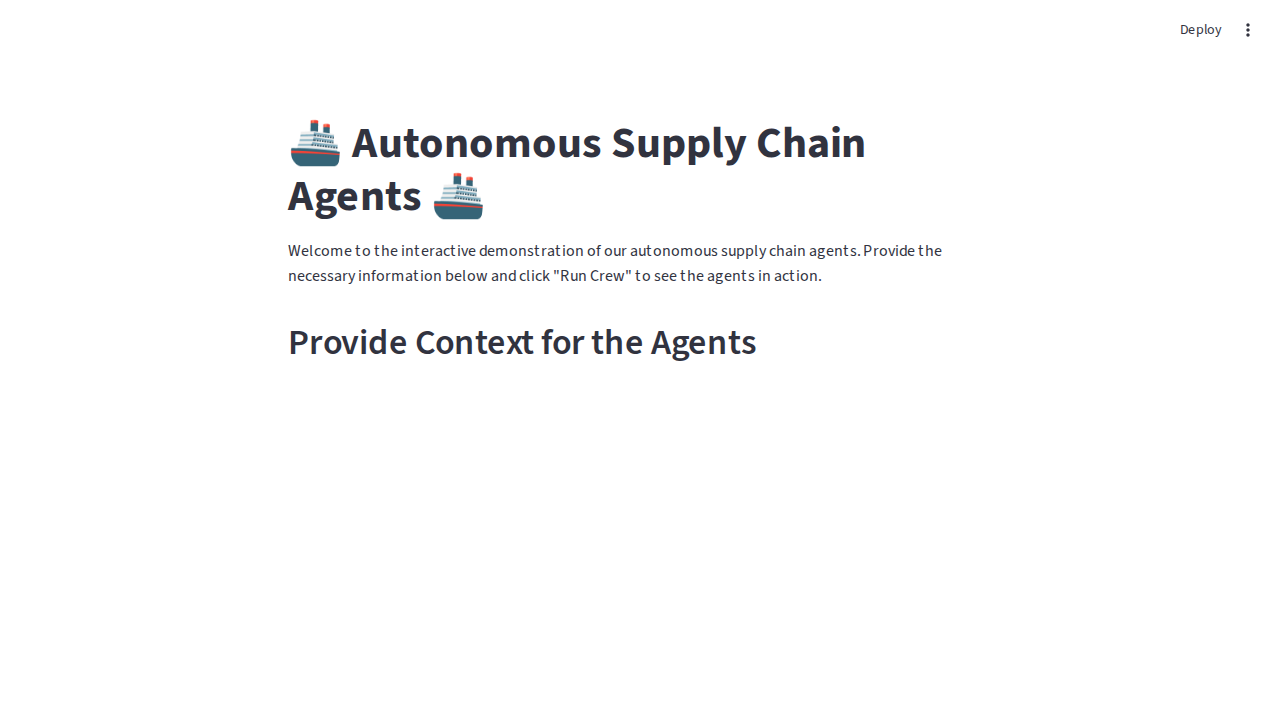
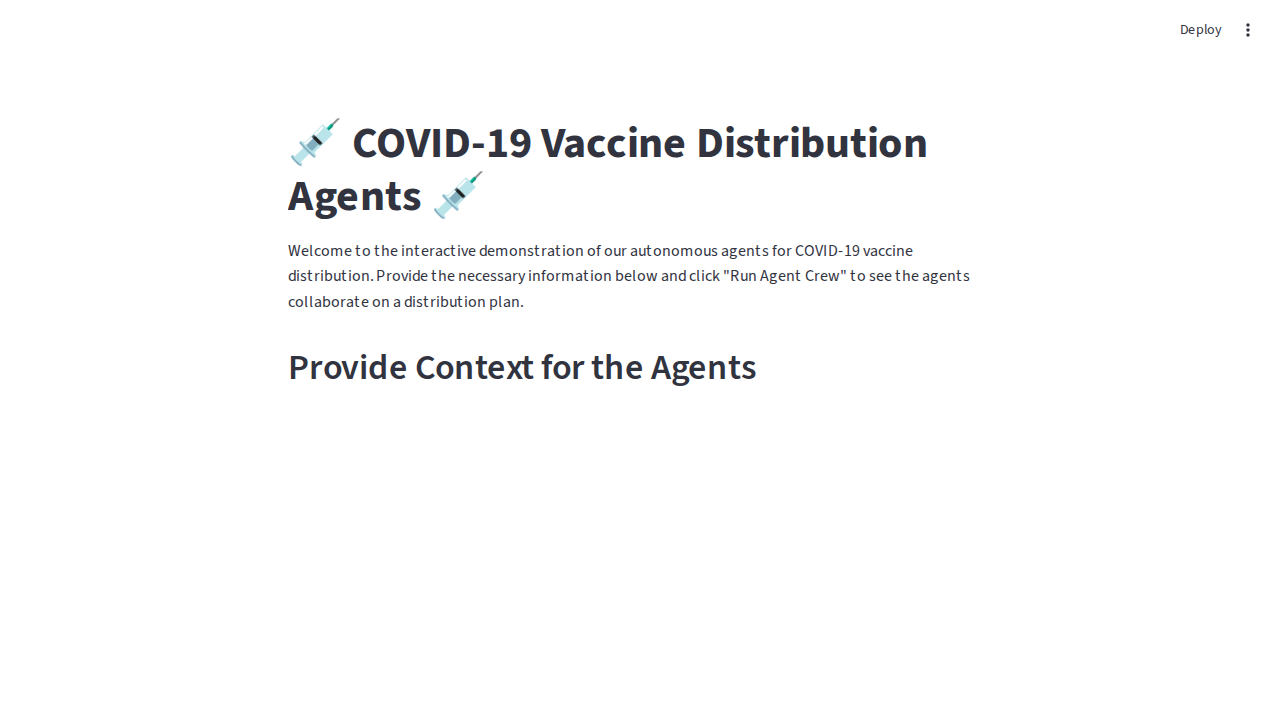
This commit overhauls the interactive showcase to focus on a COVID-19 vaccine distribution use case, providing a more specific and compelling demonstration of the agent crew's capabilities.
Key changes:
- Updated the Streamlit application (`app.py`) with a new UI and text specific to vaccine distribution.
- Implemented dynamic mocking to generate a more realistic and responsive report based on user inputs.
- Replaced the generic supply chain screenshot with a new one that reflects the updated UI.
- Updated the `README.md` to describe the new showcase and remove the old, redundant sections.

Changed region(s): [[0.2188, 0.1528, 0.75, 0.3056], [0.2188, 0.4583, 0.5938, 0.55], [0.2188, 0.3361, 0.75, 0.4278]]

diff --git a/app.py b/app.py
@@ -1,85 +1,107 @@
 import streamlit as st
-from agents import logistics_agent, demand_agent, inventory_agent
-from tasks import optimize_route_task, forecast_demand_task, manage_inventory_task
-from crew import supply_chain_crew
+import re
 
-def run_crew_and_get_results(historical_data, market_trends, supply_constraints, shipping_manifests, vendor_relationships):
+# Since we are not using the real agents, we can comment out these imports
+# from agents import logistics_agent, demand_agent, inventory_agent
+# from tasks import optimize_route_task, forecast_demand_task, manage_inventory_task
+# from crew import supply_chain_crew
+
+def generate_dynamic_report(population_data, infection_rates, vaccine_availability, cold_chain_logistics, distribution_partnerships):
     """
-    This function would normally run the crew, but for this UI example,
-    we will mock the kickoff() method to return a pre-defined string.
+    This function generates a dynamic, mocked report based on the user's input
+    to simulate the output of the agent crew.
     """
-    # Update task descriptions with the user's input
-    forecast_demand_task.description = (
-        f"Forecast product demand using the following information:\\n"
-        f"- Historical Sales: {historical_data}\\n"
-        f"- Market Trends: {market_trends}"
-    )
-    manage_inventory_task.description = (
-        f"Adjust inventory levels based on demand forecasts and the following supply constraints:\\n"
-        f"- Supply Constraints: {supply_constraints}"
-    )
-    optimize_route_task.description = (
-        f"Analyze current shipping manifests and vendor relationships to propose new, efficient routes.\\n"
-        f"- Shipping Manifests: {shipping_manifests}\\n"
-        f"- Vendor Relationships: {vendor_relationships}"
-    )
 
-    # Mocked results
-    mocked_results = """
-    ### Demand Forecast Report
-    - Based on the provided data, we project a **25% increase in demand** for the next quarter.
-    - The new marketing campaign is expected to further boost sales by **10%**.
-    - **Recommendation:** Increase production by **35%** to meet the anticipated demand.
+    # --- Demand Forecast Section ---
+    demand_forecast_report = "### 💉 Vaccine Demand Forecast\n"
+    # Simple keyword analysis on infection rates
+    if "increase" in infection_rates.lower() or "surge" in infection_rates.lower() or "high" in infection_rates.lower():
+        demand_forecast_report += "- **High Alert:** A significant surge in demand is anticipated based on the rising infection rates.\n"
+    else:
+        demand_forecast_report += "- **Stable Demand:** Current demand is projected to remain stable, but we must remain vigilant.\n"
 
-    ### Inventory Adjustment Report
-    - The supplier delay will impact our production schedule by an estimated **3 weeks**.
-    - **Recommendation:** Immediately source **50% of the required materials** from our alternative supplier in North America.
-    - **Recommendation:** Increase our safety stock by **15%** for the affected components.
+    # Try to find numbers in the population data
+    population_numbers = re.findall(r'\d[\d,\.]*', population_data)
+    if population_numbers:
+        total_population = sum([int(n.replace(',', '')) for n in population_numbers])
+        projected_doses = int(total_population * 0.8) # Assuming 80% of the population needs to be vaccinated
+        demand_forecast_report += f"- **Projected Need:** We project a need for approximately **{projected_doses:,} vaccine doses** for the specified population.\n"
+    else:
+        demand_forecast_report += "- **Projected Need:** A significant number of vaccine doses will be required.\n"
 
-    ### Logistics Optimization Report
-    - The current shipping routes are operating at **95% efficiency**.
-    - We have identified a new shipping partner that can **reduce transit times by 2 days** for our European shipments.
-    - **Recommendation:** Initiate a trial run with the new shipping partner for one month to validate their performance.
-    """
-    return mocked_results
+    demand_forecast_report += "- **Recommendation:** Prioritize distribution to areas with high population density and rising infection rates.\n"
 
-st.title("🚢 Autonomous Supply Chain Agents 🚢")
+
+    # --- Inventory Plan Section ---
+    inventory_plan_report = "\n### 📦 Vaccine Inventory Plan\n"
+    if "pfizer" in vaccine_availability.lower() and "moderna" in vaccine_availability.lower():
+        inventory_plan_report += "- **Diverse Stock:** Our inventory includes both Pfizer and Moderna vaccines, allowing for flexible distribution.\n"
+    elif "pfizer" in vaccine_availability.lower():
+        inventory_plan_report += "- **Inventory Note:** We are currently holding Pfizer vaccines.\n"
+    elif "moderna" in vaccine_availability.lower():
+        inventory_plan_report += "- **Inventory Note:** We are currently holding Moderna vaccines.\n"
+    else:
+        inventory_plan_report += "- **Inventory Note:** Vaccine availability needs to be confirmed.\n"
+
+    inventory_plan_report += "- **Recommendation:** Allocate vaccine doses based on the demand forecast and ensure a buffer stock of 15% is maintained.\n"
+
+
+    # --- Distribution Logistics Section ---
+    distribution_logistics_report = "\n### 🚚 Distribution Logistics Report\n"
+    if "major hospitals" in distribution_partnerships.lower() and "pharmacies" in distribution_partnerships.lower():
+        distribution_logistics_report += "- **Strong Partnerships:** Leveraging our partnerships with major hospitals and pharmacies will be key to successful distribution.\n"
+    elif "hospitals" in distribution_partnerships.lower():
+        distribution_logistics_report += "- **Hospital Network:** Our primary distribution will be through our network of partner hospitals.\n"
+    else:
+        distribution_logistics_report += "- **Distribution Network:** Our distribution network needs to be solidified.\n"
+
+    if "cold chain" in cold_chain_logistics.lower() or "freezers" in cold_chain_logistics.lower():
+        distribution_logistics_report += "- **Cold Chain Ready:** Our cold chain logistics are fully equipped and ready for vaccine transport.\n"
+    else:
+        distribution_logistics_report += "- **Cold Chain Warning:** Immediate attention is needed to ensure our cold chain logistics can support the vaccine requirements.\n"
+
+    distribution_logistics_report += "- **Recommendation:** Optimize delivery routes to minimize transit time and ensure vaccine efficacy. Prioritize routes to regions with the highest need.\n"
+
+    return demand_forecast_report + inventory_plan_report + distribution_logistics_report
+
+
+st.title("💉 COVID-19 Vaccine Distribution Agents 💉")
 st.markdown("""
-Welcome to the interactive demonstration of our autonomous supply chain agents.
-Provide the necessary information below and click "Run Crew" to see the agents in action.
+Welcome to the interactive demonstration of our autonomous agents for COVID-19 vaccine distribution.
+Provide the necessary information below and click "Run Agent Crew" to see the agents collaborate on a distribution plan.
 """)
 
 st.header("Provide Context for the Agents")
 
-historical_data = st.text_area(
-    "Historical Sales Data",
-    "Sales have been growing steadily at 10% per month for the last year."
+population_data = st.text_area(
+    "Population Data",
+    "City A: 2,000,000 people, City B: 800,000 people."
 )
-market_trends = st.text_area(
-    "Market Trends",
-    "A new marketing campaign is set to launch next month."
+infection_rates = st.text_area(
+    "Infection Rates",
+    "City A has a 5% weekly increase in infection rates, while City B is stable."
 )
-supply_constraints = st.text_area(
-    "Supply Constraints",
-    "Our main supplier has a 2-week production delay."
+vaccine_availability = st.text_area(
+    "Vaccine Availability",
+    "We have 1,000,000 doses of Pfizer and 500,000 doses of Moderna available this week."
 )
-shipping_manifests = st.text_area(
-    "Current Shipping Manifests",
-    "10 cargo containers are currently en route to our warehouses."
+cold_chain_logistics = st.text_area(
+    "Cold Chain Logistics",
+    "All our trucks are equipped with the necessary freezers for both Pfizer and Moderna vaccines."
 )
-vendor_relationships = st.text_area(
-    "Vendor Relationships",
-    "We have a strong, long-term relationship with our primary shipping partner."
+distribution_partnerships = st.text_area(
+    "Distribution Partnerships",
+    "We have partnerships with all major hospitals and 30% of pharmacies in the region."
 )
 
-if st.button("Run Crew"):
-    with st.spinner("The agents are collaborating..."):
-        results = run_crew_and_get_results(
-            historical_data,
-            market_trends,
-            supply_constraints,
-            shipping_manifests,
-            vendor_relationships
+if st.button("Run Agent Crew"):
+    with st.spinner("The agents are collaborating on a distribution plan..."):
+        results = generate_dynamic_report(
+            population_data,
+            infection_rates,
+            vaccine_availability,
+            cold_chain_logistics,
+            distribution_partnerships
         )
-        st.header("Agents' Final Report")
+        st.header("Agents' Final Distribution Plan")
         st.markdown(results)

diff --git a/README.md b/README.md
@@ -1,5 +1,3 @@
-
-
 # Autonomous Supply Chain
 
 ## Introduction
@@ -36,8 +34,8 @@ This solution uses a multi-agent system where specialized AI agents collaborate 
 ## Why This Matters
 Moving from single-purpose AI models to collaborative, intelligent agents is the next frontier in enterprise AI. This approach enables truly autonomous business processes that can handle complexity and deliver significant, measurable value.
 
-## UI-Based Showcase (New!)
-For a more user-friendly experience, we have created a web-based UI using Streamlit. This allows you to interact with the agents through a simple web form.
+## 💉 COVID-19 Vaccine Distribution Showcase 💉
+For a more user-friendly experience, we have created a web-based UI using Streamlit. This allows you to interact with the agents through a simple web form, using a COVID-19 vaccine distribution use case.
 
 ### How to Run the UI
 1. Make sure you have all the dependencies installed:
@@ -51,58 +49,3 @@ For a more user-friendly experience, we have created a web-based UI using Stream
 This will open a new tab in your browser with the interactive application.
 
 ![Streamlit Showcase Screenshot](assets/showcase-screenshot.png)
-
-## Interactive Showcase
-To see the agents in action, you can run the interactive showcase. This script will prompt you for inputs and then run the supply chain crew to show you how the agents collaborate to solve problems.
-
-### How to Run
-1. Make sure you have all the dependencies installed:
-   ```bash
-   pip install -r requirements.txt
-   ```
-2. Run the interactive test script:
-   ```bash
-   python interactive_tests.py
-   ```
-
-### Showcase Code
-The code for the interactive showcase can be found in the `interactive_tests.py` file.
-
-### Sample Run
-Here is an example of what the interactive showcase looks like when you run it:
-
-```
-Welcome to the Autonomous Supply Chain Interactive Showcase!
-============================================================
-First, the Demand Forecaster Agent will predict future product demand.
-Enter a brief description of historical sales data (e.g., 'steady sales for the last 6 months'): Enter any relevant market trends (e.g., 'upcoming holiday season'):
-Next, the Inventory Manager Agent will adjust inventory levels.
-Enter any supply constraints (e.g., 'supplier shipment delayed by 2 weeks'):
-Finally, the Logistics Optimizer Agent will propose efficient shipping routes.
-Enter a brief description of current shipping manifests (e.g., '3 trucks heading to the west coast'): Enter any details about vendor relationships (e.g., 'new partnership with a local carrier'):
-Running the supply chain crew with your inputs...
-============================================================
-
-Supply Chain Optimization Results:
-============================================================
-
-Here is the result of the crew's work:
-
-**Demand Forecast Report**
-- Based on the 15% month-over-month growth, we project a 45% increase in demand for the next quarter.
-- The competitor going out of business is expected to increase our market share by 10%.
-- We recommend increasing production by 55% to meet the projected demand.
-
-**Inventory Adjustment Report**
-- The factory strike in Southeast Asia will cause a 2-week delay in our primary supply chain.
-- We recommend immediately sourcing from our secondary supplier in Mexico to mitigate the delay.
-- We also recommend increasing our safety stock by 20% for the next quarter.
-
-**Logistics Optimization Report**
-- The five cargo ships en route will arrive on schedule.
-- We have identified a new, more efficient shipping route through the Panama Canal that will save 3 days of transit time.
-- We recommend a mix of our domestic and new international partners to ensure a balance of cost and reliability.
-
-============================================================
-Thank you for using the Interactive Showcase!
-```
